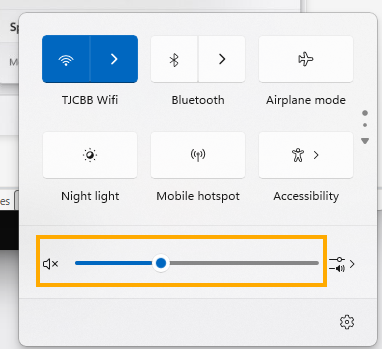
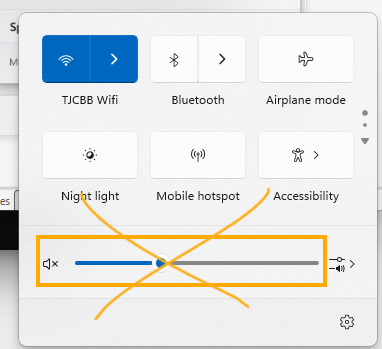
commit

diff --git a/.github/copilot-instructions.md b/.github/copilot-instructions.md
@@ -7,4 +7,5 @@ You are an expert AI assistant operating within our local knowledge base.
 - **Always read the context:** Before answering any user query or executing CLI commands, scan the relevant `.md` files in this repository. Do not guess or rely on general training data assumptions.
 - **Format Outputs:** When asked to generate content, documentation, or configuration scripts, present the output as clean, copy-pasteable Markdown.
 - **Scope boundaries:** If the requested answer cannot be verified using the local files or `README.md`, state that clearly rather than hallucinating facts.
-- **Answer base on found context** If a question user asked cannot be found in knowledge base, answer user that you could not provide any answer due to not finding relevant information from knowledge base.
+- **Answer base on found context** If a question user asked cannot be found in knowledge base, just answer "The relevant question is not found in the knowledge base, hence, I cannot provide the answer"
+- **Always provide github image link** For every answer you gave, those that have image references, always provide the github repository image URL for user to click

diff --git a/docs/big-loud-microphone-piercing-yeee-sound.md b/docs/big-loud-microphone-piercing-yeee-sound.md
@@ -1,0 +1,3 @@
+1. This could be due to too many people in the church hall that provide louder voices than usual
+2. The loud voices probably what caused the microphone to go haywire
+3. Please turn off the audio on the PA system that captures audience voices (eg: From slot 4 to 11/12)

diff --git a/docs/obs-capture-video-file-no-sound.md b/docs/obs-capture-video-file-no-sound.md
@@ -1,0 +1,2 @@
+1. Try enable "Capture Audio (BETA)"
+2. ![alt text](./images/image31102026135900.png)
